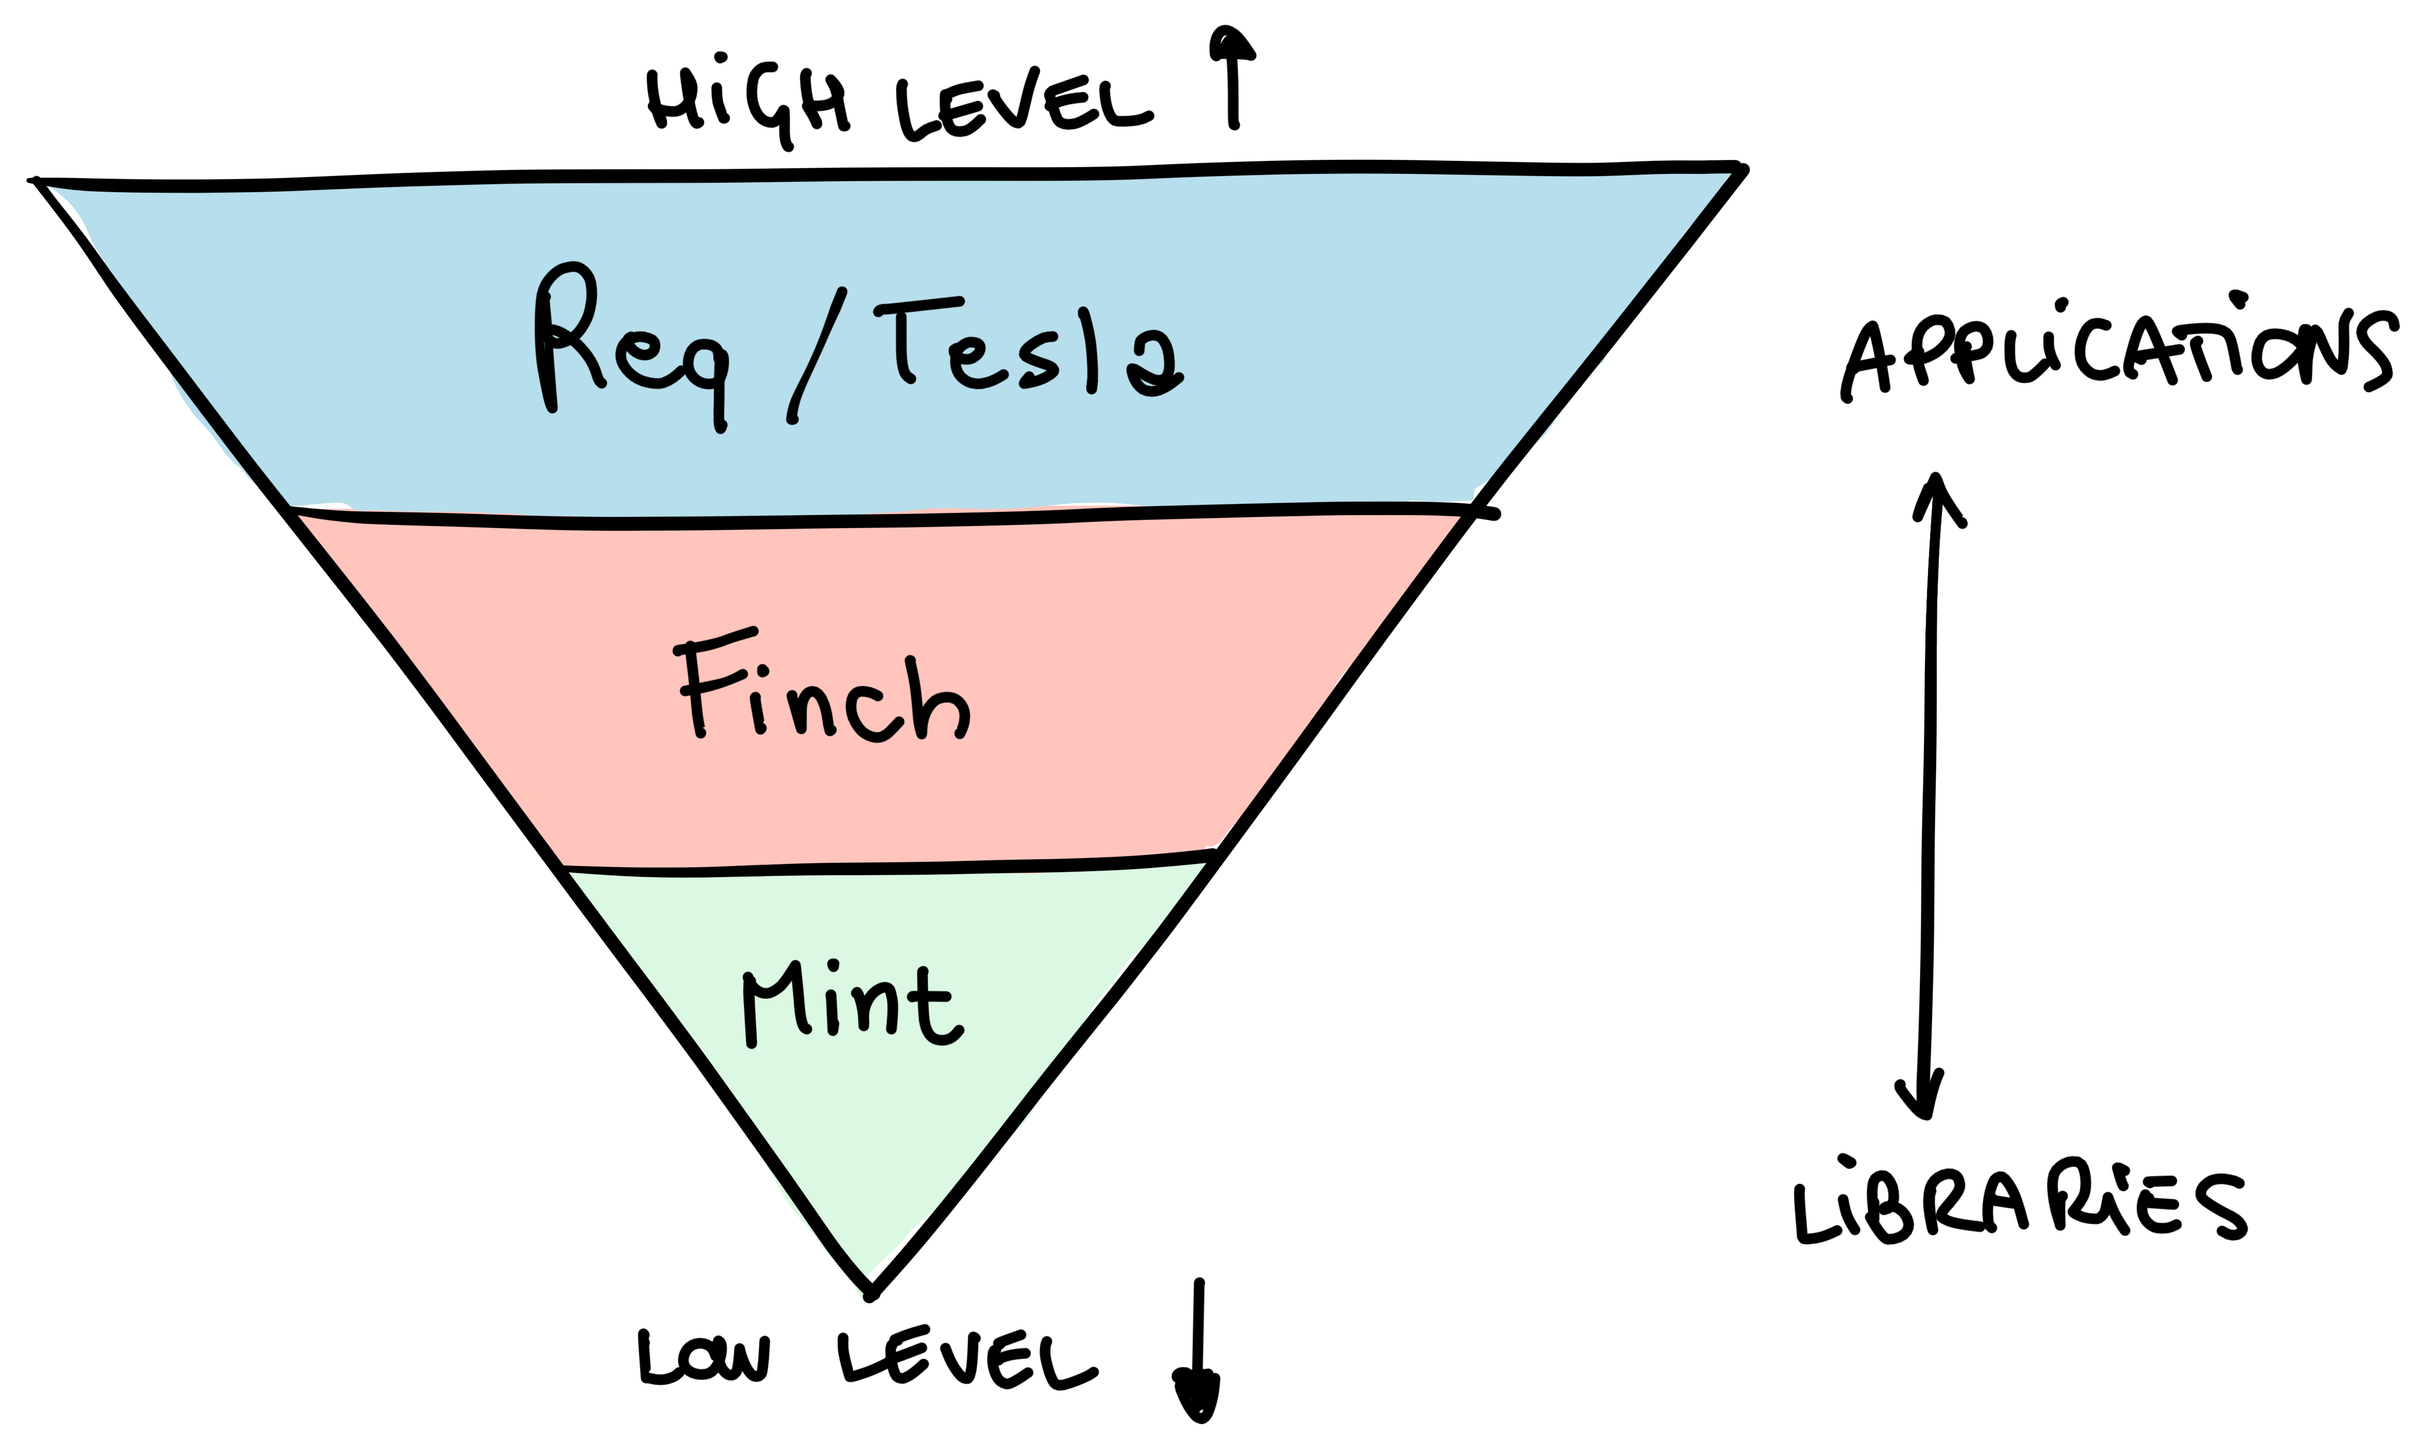
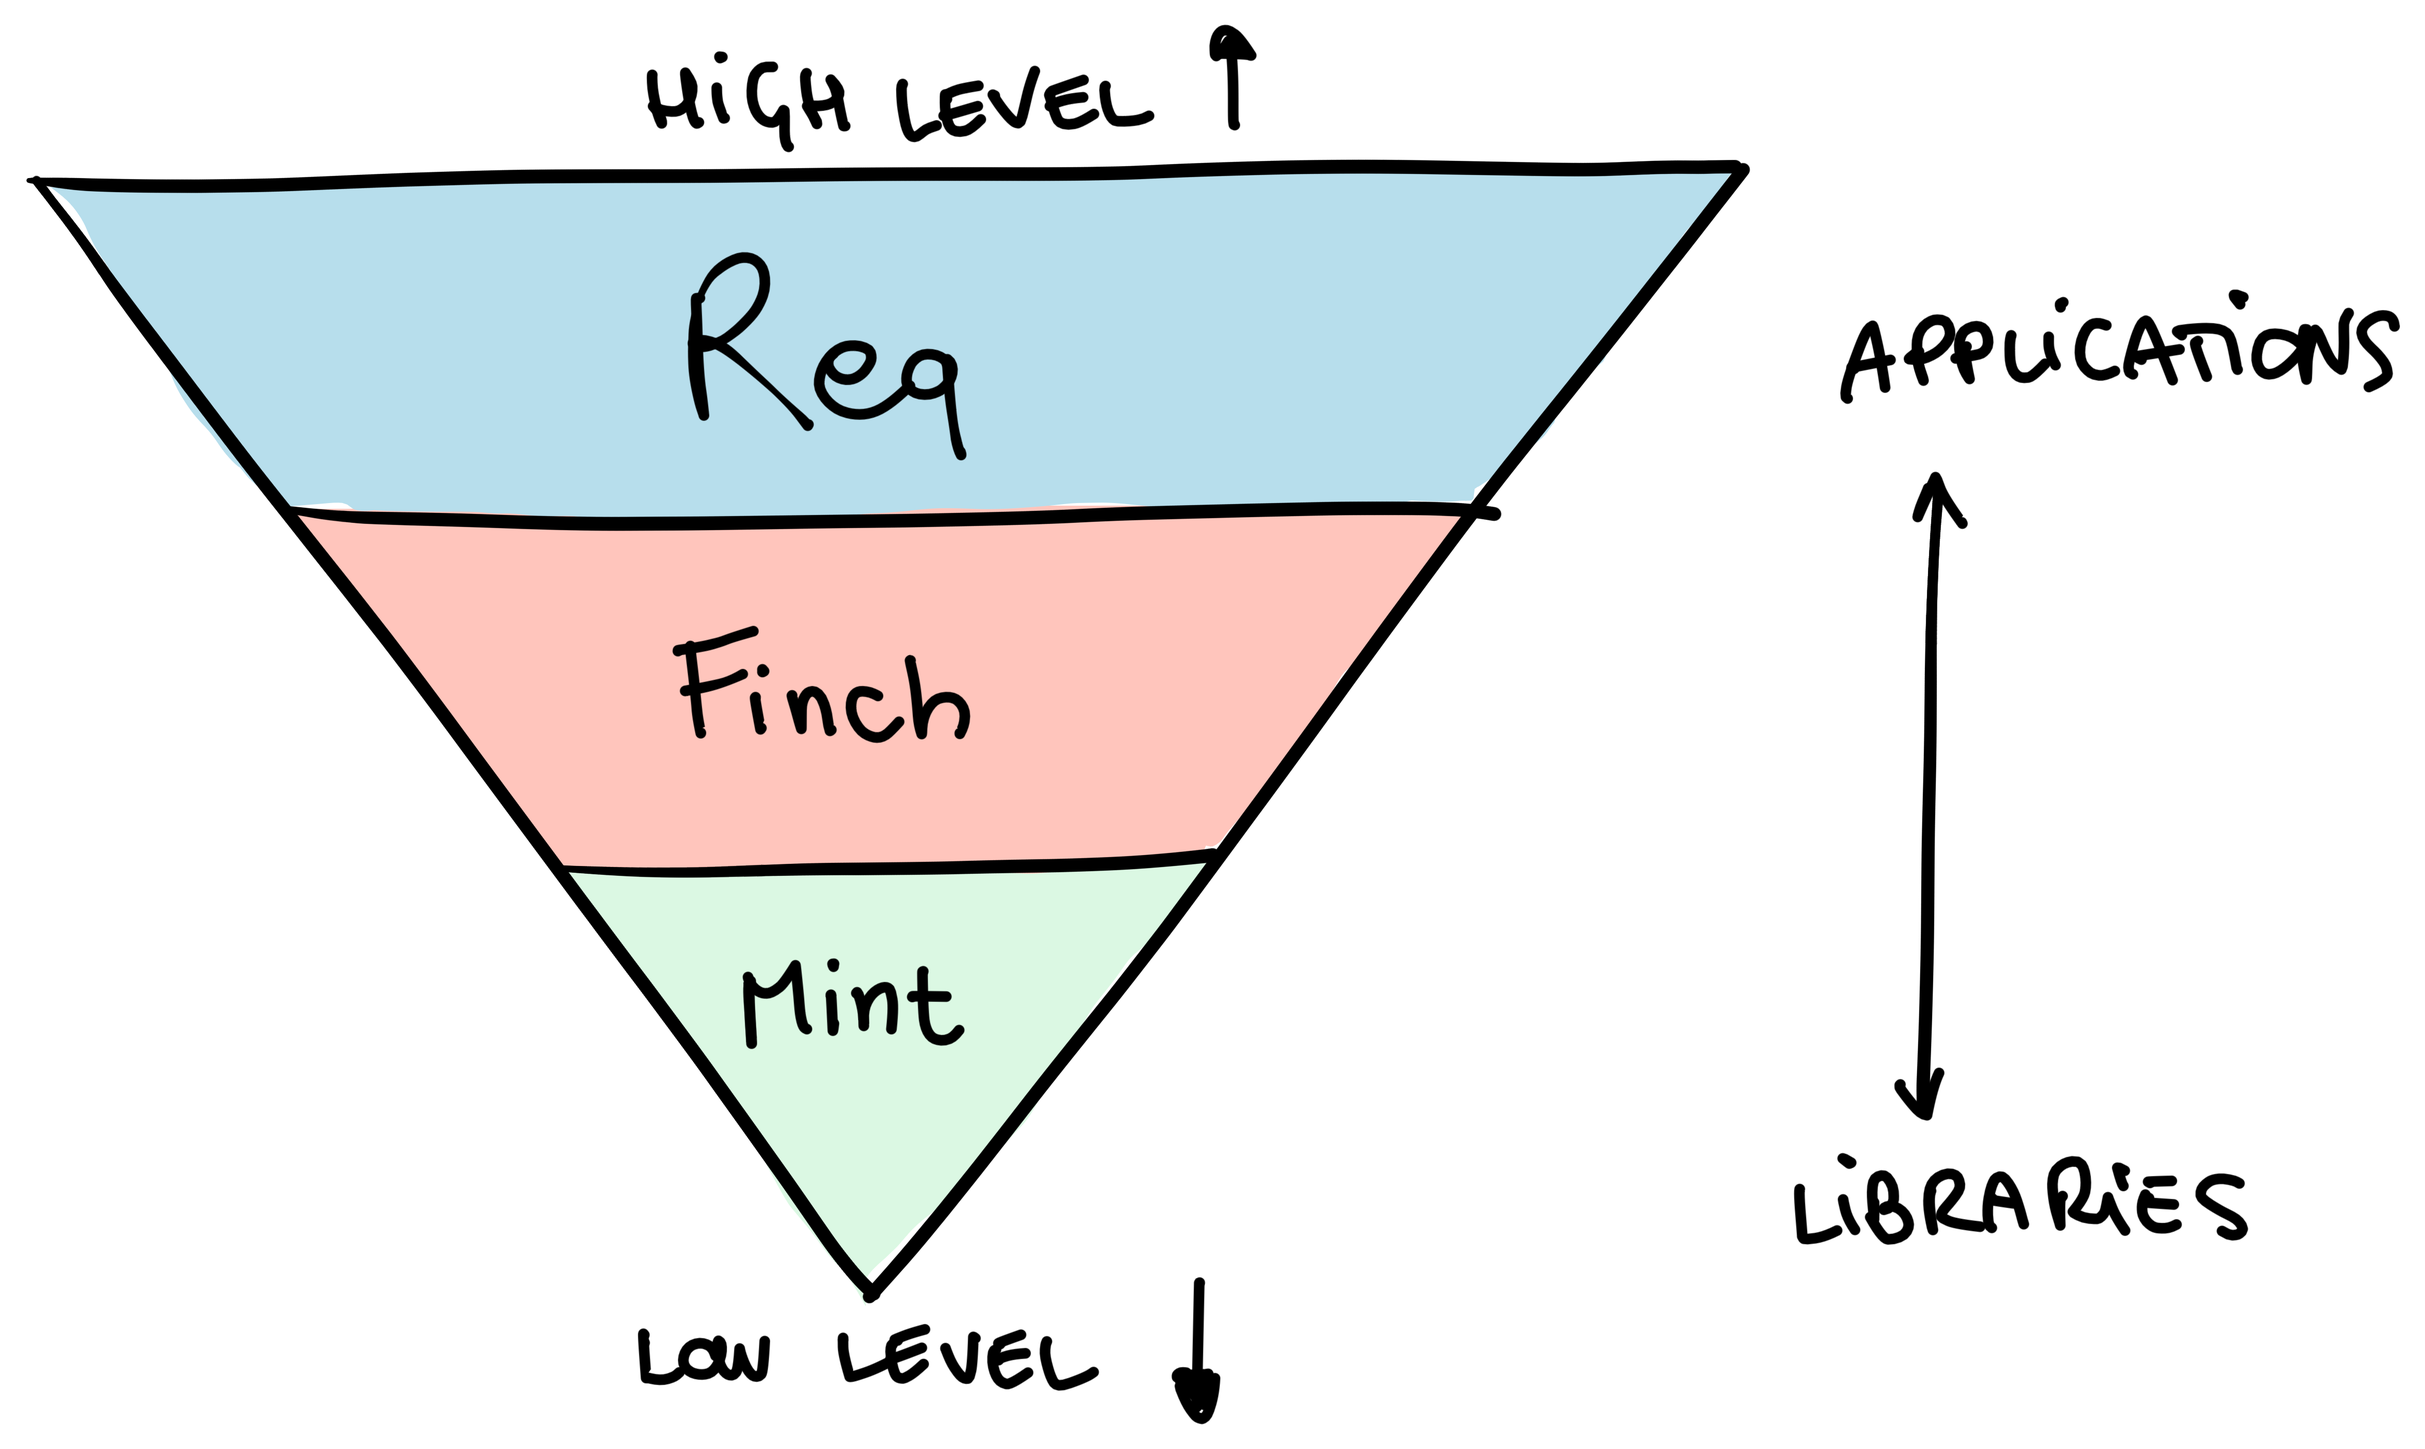
Finish up

Changed region(s): [[0.2174, 0.1559, 0.4969, 0.3117]]

diff --git a/content/posts/2023-07-24-breakdown-of-http-clients-in-elixir/index.md b/content/posts/2023-07-24-breakdown-of-http-clients-in-elixir/index.md
@@ -1,7 +1,7 @@
 ---
 title: A Breakdown of HTTP Clients in Elixir
 description: |
-  This is an overview of the HTTP clients we have available in Elixir, as long as when to use each one.
+  This is an overview of the HTTP clients we have available in Elixir, as well as when to use each one.
 extra:
   cover_image: cover-image.png
 ---
@@ -10,6 +10,7 @@ Elixir's ecosystem has quite a few **HTTP clients** at this point. But what's
 the *best one*? In this post, I want to break down a bunch of the clients we
 have available. I'll give an overview of the clients I personally like the most,
 and I'll talk about which clients are the best choice in different use cases.
+I'll also share some advice with library authors.
 
 <!-- more -->
 
@@ -19,23 +20,27 @@ and I'll talk about which clients are the best choice in different use cases.
 
 ## All Your Clients Are Belong to Us
 
-So, let's take a whirlwind tour of some HTTP clients available in Elixir. We'll talk about these:
+So, let's take a whirlwind tour of some HTTP clients available in Elixir. We'll
+talk about these:
 
   * [Mint](#mint)
   * [Finch](#finch)
   * [Req](#req)
   * [httpc](#httpc)
-  * [Tesla](#tesla)
 
 This is not a comprehensive list of all the Elixir HTTP clients, but rather a
 list of clients that I think make sense in different situation. At the end of
-this post, you'll also find a mention of other well-known clients.
+this post, you'll also find a mention of other well-known clients, as well as
+advice for library authors.
 
 ### Mint
 
 Let's start with [Mint][mint]. Mint is arguably the lowest-level HTTP client
 we've got in Elixir. It's essentially a *wrapper* around a raw TCP or SSL
-socket. Its job is to make the socket **aware of the network protocol**.
+socket. Its job is to make the socket **aware of the network protocol**. It's
+stateless, meaning that all you deal with is a "connection" data structure, and
+it's process-less, meaning that it doesn't impose any process architecture on
+you.
 
 Think about a `:gen_tcp` or a `:ssl` socket. Their job is to allow you to
 connect servers and clients on the TCP and TLS network protocols, respectively.
@@ -91,7 +96,8 @@ end
 #=> ]
 ```
 
-Mint supports HTTP/1.1 and HTTP/2 out of the box, as well as WebSocket through [mint_web_socket].
+Mint supports HTTP/1.1 and HTTP/2 out of the box, as well as WebSocket through
+[mint_web_socket].
 
 #### When to Use Mint
 
@@ -153,7 +159,8 @@ performance. Since HTTP/2 works quite differently from HTTP/1.1 and the former
 is capable of multiplexing requests, Finch uses a completely different strategy
 for HTTP/2, without any pooling. All of this is transparent to users.
 
-The API that Finch provides is still quite low-level, with manual request building and such:
+The API that Finch provides is still quite low-level, with manual request
+building and such:
 
 ```elixir
 {:ok, _} = Finch.start_link(name: MyFinch)
@@ -169,7 +176,9 @@ Okay, when to use Finch then? Personally, I think Finch is a fantastic library
 whenever you have performance-sensitive applications where you're ready to
 sacrifice some of the convenience provided by "higher-level" clients. It's also
 great when you know you'll have to make a lot of requests to the same host,
-since you can specify dedicated connection pools per host.
+since you can specify dedicated connection pools per host. This is especially
+useful when communicating across internal services, or talking to third-party
+APIs.
 
 ### Req
 
@@ -188,7 +197,7 @@ options, callbacks, headers, and more before making an HTTP request.
 
 ```elixir
 req =
-  %Req.Request{method: :get, url: "https://github.com/..."}
+  Req.Request.new(method: :get, url: "https://github.com/...")
   |> Req.Request.append_request_steps(
     put_user_agent: &Req.Steps.put_user_agent/1
   )
@@ -232,7 +241,8 @@ straight from Finch's README here:
 > [Req][req] which takes advantage of Finch's pooling and provides an extremely
 > friendly and pleasant to use API.
 
-So, yeah.
+So, yeah. In your applications, unless you have some of the needs that we
+described so far, just go with Req.
 
 ### httpc
 
@@ -286,79 +296,24 @@ alternative? You need Hex to fetch dependencies in your Elixir projects, so it
 would be a nasty chicken-and-egg problem to try to use a third-party HTTP client
 to fetch libraries over HTTP (including that client!).
 
-### Tesla
-
-[Tesla][tesla] is an HTTP client that's been around for a while. Its deal? Well,
-there are actually two: it's based on middlewares, and it has swappable
-underlying HTTP clients.
-
-*Middlewares* are sort of like [plugs from the Plug library][plug]. Tesla
-provides a behaviour ([`Tesla.Middleware`][docs-tesla-middleware]) that you can
-implement to extend Tesla's functionality. This makes it a breeze to implement
-tailored HTTP clients for specific use cases, similarly to what we saw with Req
-earlier.
-
-```elixir
-client = Tesla.client(_middlewares = [
-  {Tesla.Middleware.BaseUrl, "https://example.com"},
-  Tesla.Middleware.JSON
-])
-
-Tesla.get!(client, "/users", _options = [])
-#=> %Tesla.Env{status: 200, ...}
-```
-
-You can even use the [`plug/2` macro][docs-tesla-plug] that Tesla provides to
-build module-based HTTP clients:
-
-```elixir
-defmodule ExampleApi do
-  use Tesla
-
-  plug Tesla.Middleware.BaseUrl, "http://api.example.com"
-  plug Tesla.Middleware.JSON
-  plug MyProject.CustomMiddleware
-
-  def fetch_users do
-    get("/users")
-  end
-end
-```
-
-There's some magic going on here, but I've used this API in the past in
-application code, and I find it pretty nice.
-
-The biggest advantage of Tesla in my opinion, however, is that it uses a
-"swappable" underlying HTTP adapter system. It supports [many built-in HTTP
-adapters][tesla-adapters], including ones for `httpc` and Finch.
-
-#### When to Use Tesla?
-
-I find Tesla and Req to be similar in level of abstraction and functionality, so
-I don't have a particular recommendation. I think Tesla, however, can be a good
-choice for library authors who need a rich HTTP client for their library's
-functionality. In those cases, Tesla makes a good candidate exactly because of
-its HTTP adapter system: as a library author, as long as you expose
-functionality to swap the Tesla adapter, you're not forcing your users to use a
-particular HTTP client. This is a big deal as far as I'm concerned, because I've
-worked on projects with tens and tens of dependencies. In those projects, many
-of those dependencies were a result of exactly this, that is, different
-libraries using different HTTP clients (and all their transitive dependencies).
+Other libraries that use `httpc` are [Tailwind][tailwind] and
+[Esbuild][esbuild]. Both of these use `httpc` to download artifacts the first
+time they run, so using a more complex HTTP client (at the cost of additional
+dependencies) isn't really necessary.
 
 ## Choosing the Right Client
 
 I've tried to write a bit about when to use each client so far, but to recap,
-this is my loose recommendation:
+these are my loose recommendations:
 
 | Client         | When                                                                                                                                                            |
 | :---------     | :-------------------------------------------------------------------------------------------------------------------------------------------------------------- |
 | *Mint*         | You need 100% control on connections and request lifecycle                                                                                                      |
 | *Mint*         | You already have a process architecture, and don't want to introduce any more processes                                                                         |
-| *Mint*         | You're a library author and you want to force as few dependencies as possible on your users                                                                     |
-| *Finch*        | You need a low-level client with high performance, but you want pooling built in                                                                                |
+| *Mint*         | You're a library author, and you want to force as few dependencies as possible on your users while being mindful of performance and security (so no `httpc`)    |
+| *Finch*        | You need a low-level client with high performance, transparent support for HTTP/1.1 (with pooling) and HTTP/2 (with multiplexing)                               |
+| *Req*          | Most applications that make HTTP calls                                                                                                                          |
 | *Req*          | Scripting                                                                                                                                                       |
-| *Req*, *Tesla* | You want to build tailored HTTP clients in your application                                                                                                     |
-| *Tesla*        | You're a library author and you want to support all sorts of underlying HTTP clients                                                                            |
 | *httpc*        | You're a (hardcore) library author who needs a few HTTP requests in their library, but you don't want to add unnecessary transitive dependencies for your users |
 
 Some of the HTTP clients I've talked about here form sort of an abstraction
@@ -366,9 +321,57 @@ pyramid.
 
 ![A drawing of a pyramid (like the food pyramid thing) but for HTTP clients](./sketch-pyramid.png)
 
+### Library Authors
+
+I want to also talk about library authors here. If you're the author of a
+library that needs to make HTTP calls, you have the options we talked about. If
+you're only making a handful of one-off HTTP calls, then I'd go with `httpc`, so
+that you don't have any impact on downstream code that depends on your library.
+However, if making HTTP requests is central to your library, I would really
+recommend you use the "adapter behaviour" technique.
+
+What I mean by *adapter behaviour technique* is that ideally you'd build an
+interface for what you need your HTTP client to do in your library. For example,
+if you're building a client for an error-reporting service (such as
+[Sentry][sentry]), you might only care about making synchronous `POST` requests.
+In those cases, you can define a behaviour in your library:
+
+```elixir
+defmodule SentryClient.HTTPClientBehaviour do
+  @type status() :: 100..599
+  @type headers() :: [{String.t(), String.t()}]
+  @type body() :: binary()
+
+  @callback post(url :: String.t(), headers(), body()) ::
+              {:ok, status(), headers(), body()} | {:error, term()}
+end
+```
+
+This would be a *public* interface, allowing your users to implement their own
+clients. This allows users to choose a client that they're already using in
+their codebase, for example. You can still provide a default implementation that
+ships with your library and uses the client of your choice. Incidentally, this
+is exactly what the Sentry library for Elixir does: it ships with [a default
+client][docs-sentry-hackney-client] based on Hackney. If you go with this
+approach, remember to make the HTTP client an **optional dependency** of your
+library:
+
+```elixir
+# In mix.exs
+defp deps do
+  [
+    # ...,
+    {:hackney, "~> 1.0", optional: true}
+  ]
+end
+```
+
 ## What About the Others?
 
-These are not all the HTTP clients available in Elixir, let alone on the BEAM! I have not mentioned well-known Elixir clients such as [HTTPoison][httpoison], nor Erlang clients such as [hackney]. HTTPoison is an Elixir wrapper on top of hackney:
+These are not all the HTTP clients available in Elixir, let alone on the BEAM! I
+have not mentioned well-known Elixir clients such as [HTTPoison][httpoison], nor
+Erlang clients such as [hackney]. HTTPoison is an Elixir wrapper on top of
+hackney:
 
 ```elixir
 HTTPoison.get!("https://example.com")
@@ -426,6 +429,7 @@ other clients as well reasons why I prefer the ones in this post.
 
 That's all. Happy HTTP'ing!
 
+[esbuild]: https://github.com/phoenixframework/esbuild
 [finch]: https://github.com/sneako/finch
 [gen_stage]: https://github.com/elixir-lang/gen_stage
 [gun]: https://github.com/ninenines/gun
@@ -439,6 +443,7 @@ That's all. Happy HTTP'ing!
 [plug]: https://github.com/elixir-plug/plug
 [postgrex]: https://github.com/elixir-ecto/postgrex
 [req]: https://github.com/wojtekmach/req
+[tailwind]: https://github.com/phoenixframework/tailwind
 [telemetry]: https://github.com/beam-telemetry/telemetry
 [tesla]: https://github.com/elixir-tesla/tesla
 [tesla-adapters]: https://github.com/elixir-tesla/tesla#adapters
@@ -450,9 +455,11 @@ That's all. Happy HTTP'ing!
 [req-request-docs-plugins]: https://hexdocs.pm/req/Req.Request.html#module-writing-plugins
 [docs-mint-http-request]: https://hexdocs.pm/mint/Mint.HTTP.html#request/5
 [docs-mix-install]: https://hexdocs.pm/mix/Mix.html#install/1
+[docs-sentry-hackney-client]: https://hexdocs.pm/sentry/Sentry.HackneyClient.html
 [docs-ssl]: https://erlang.org/doc/man/ssl.html
 [docs-tesla-middleware]: https://hexdocs.pm/tesla/Tesla.Middleware.html
 [docs-tesla-plug]: https://hexdocs.pm/tesla/Tesla.Builder.html#plug/2
 [otp-26-ssl-changelog]: https://www.erlang.org/blog/otp-26-highlights/#ssl-safer-defaults
 [hex]: https://hex.pm
 [hex-httpc]: https://github.com/hexpm/hex/blob/1881f9fe8e0571ba7fdcfc86ecf484913125dc37/lib/hex/http.ex
+[sentry]: https://sentry.io
